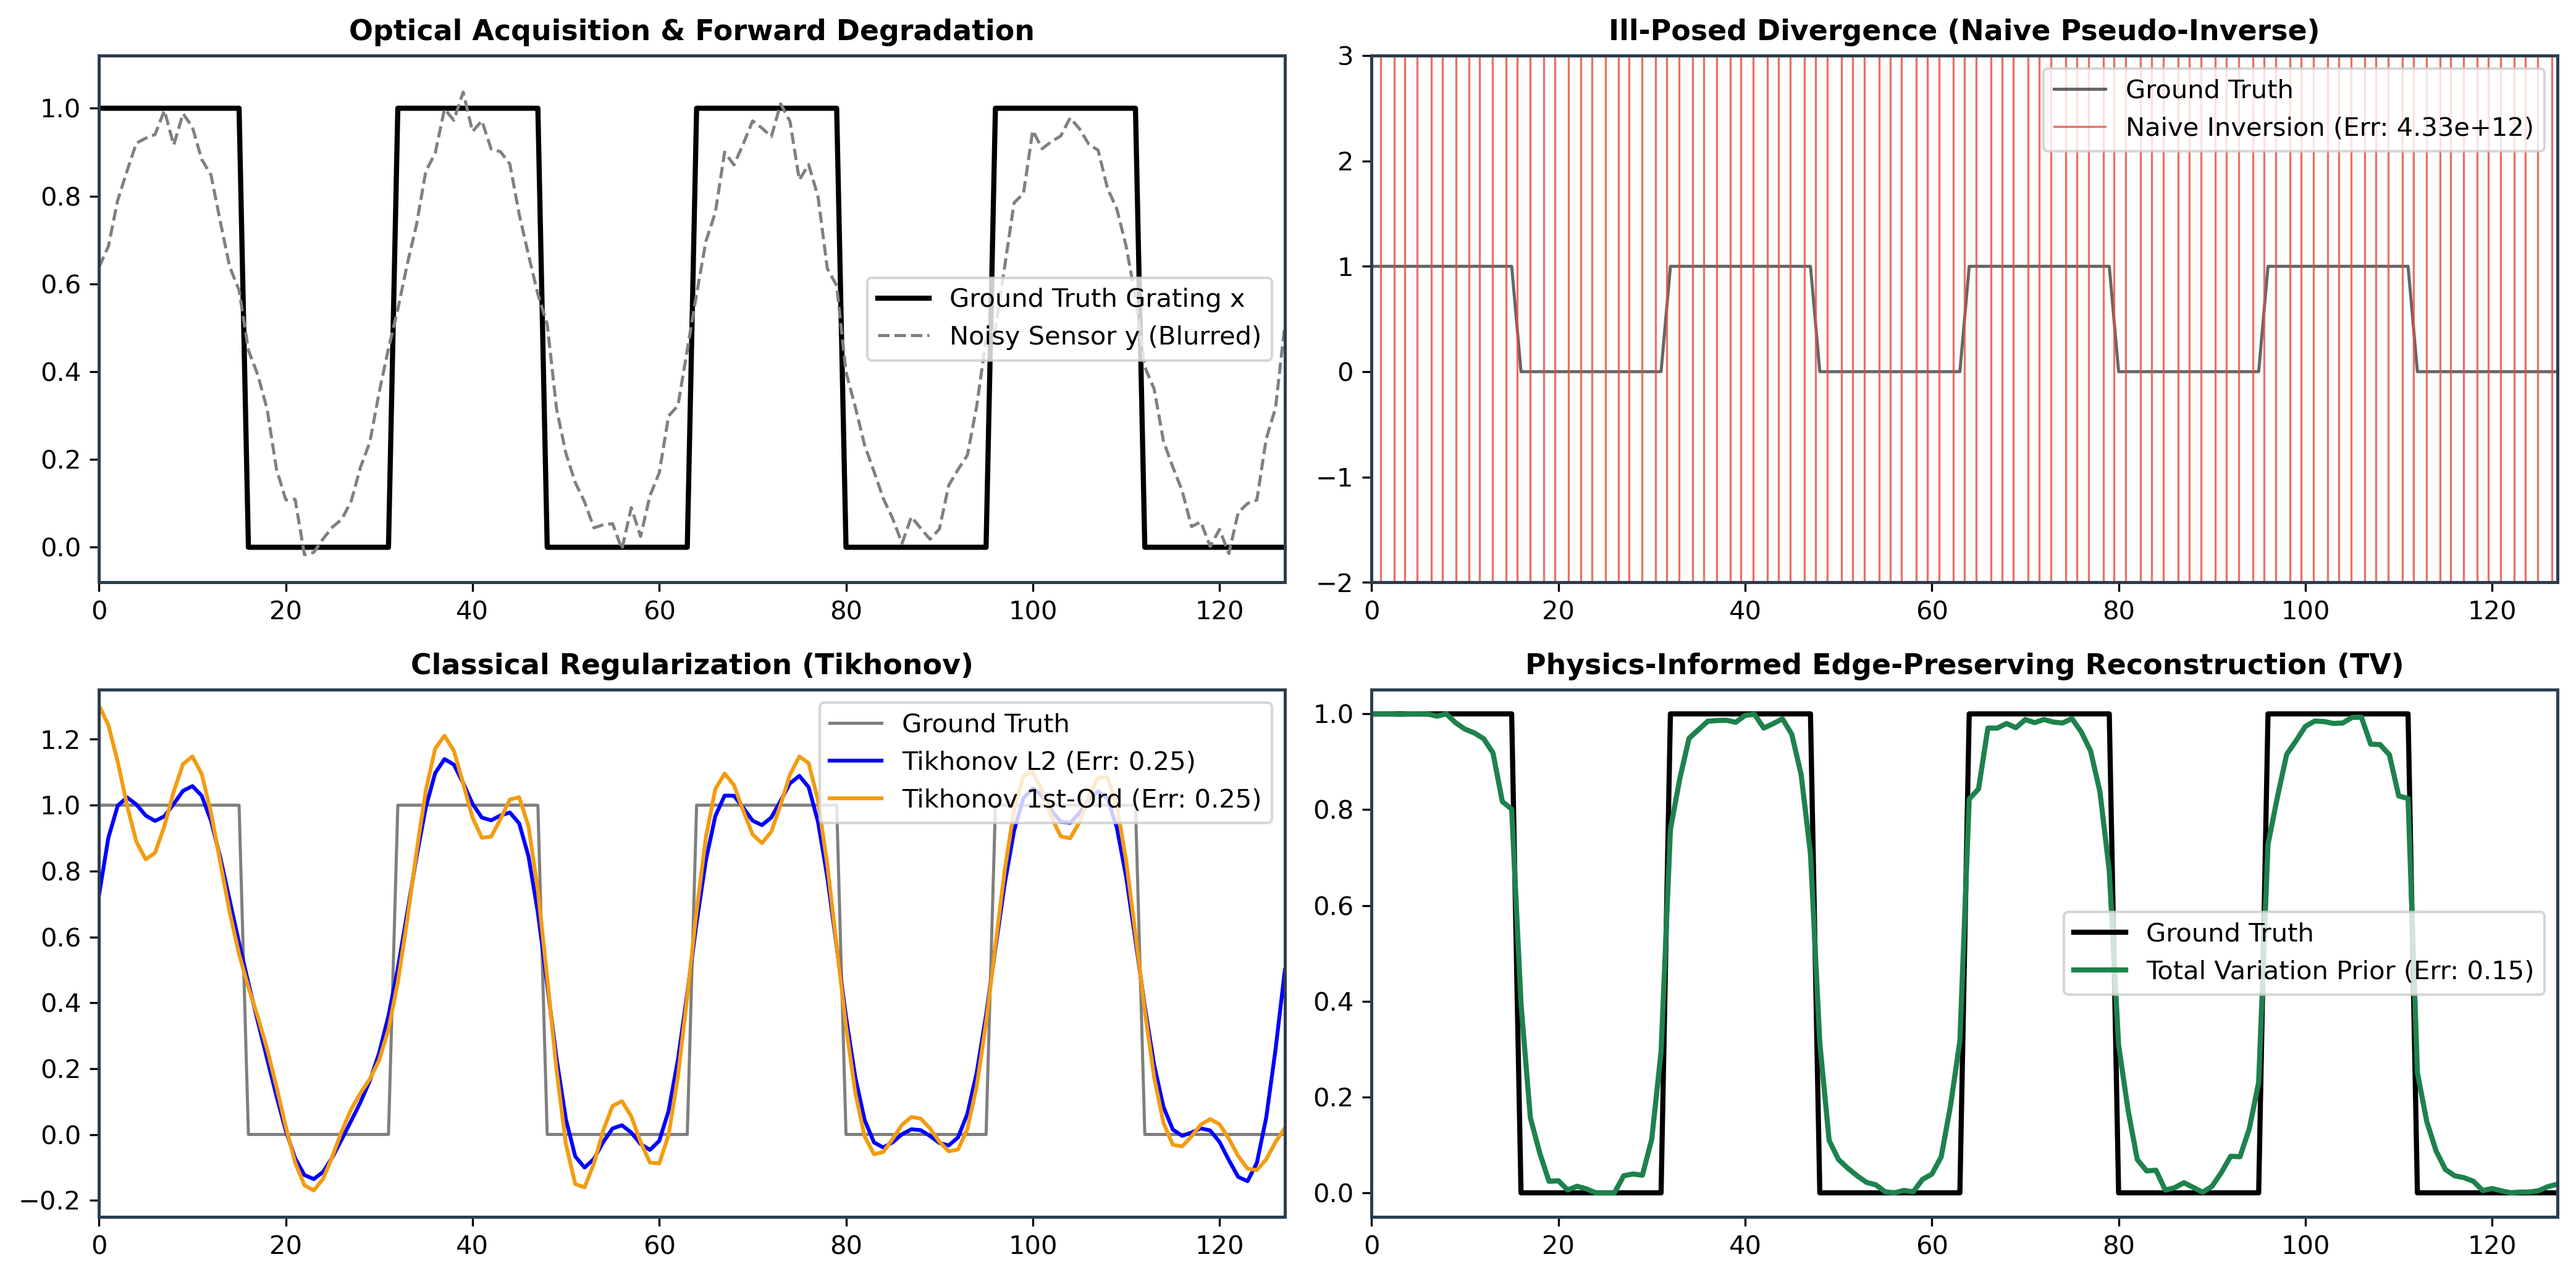
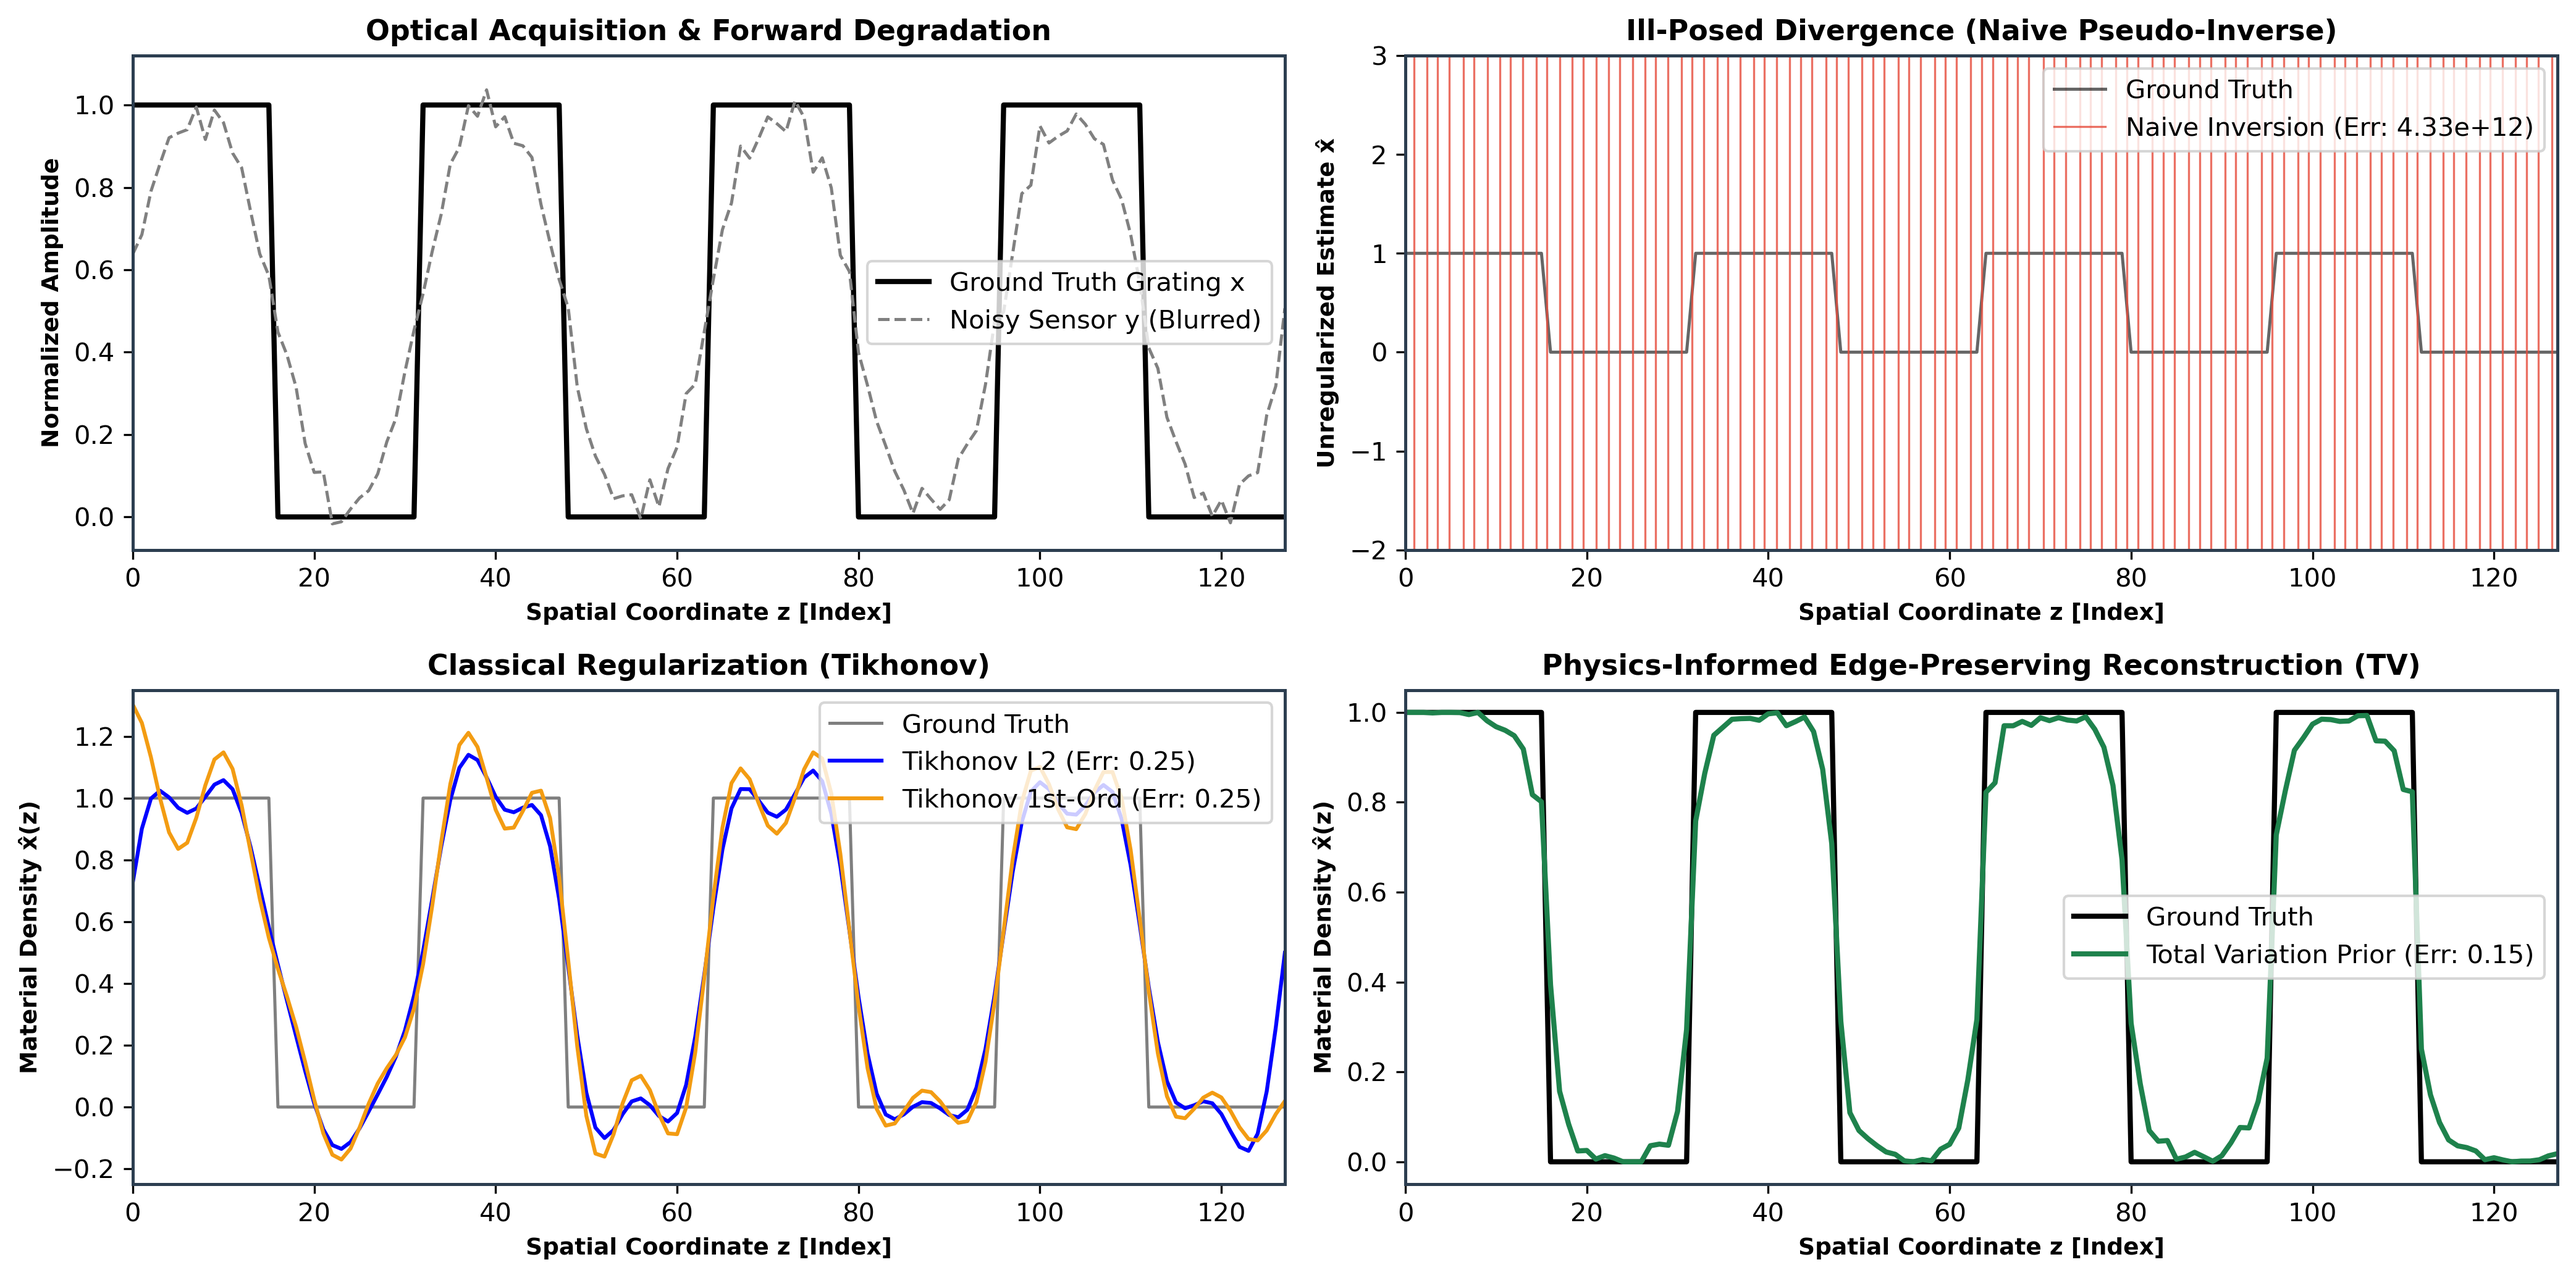
fix: minor corrections and fixes in run_benchmark

diff --git a/run_benchmark.py b/run_benchmark.py
@@ -68,6 +68,8 @@ def main():
     ax1.plot(x_true, color='black', linewidth=2.0, label='Ground Truth Grating x')
     ax1.plot(y_noisy, color='gray', linestyle='--', linewidth=1.2, label='Noisy Sensor y (Blurred)')
     ax1.set_title('Optical Acquisition & Forward Degradation', fontsize=11, fontweight='bold')
+    ax1.set_xlabel('Spatial Coordinate z [Index]', fontsize=9, fontweight='bold')
+    ax1.set_ylabel('Normalized Amplitude', fontsize=9, fontweight='bold')
     ax1.set_xlim(0, N - 1)
     ax1.set_ylim(-0.08, 1.12)
     ax1.grid(False)
@@ -78,27 +80,33 @@ def main():
     ax2.plot(x_true, color='black', linewidth=1.2, alpha=0.6, label='Ground Truth')
     ax2.plot(x_naive, color='#e74c3c', linewidth=0.8, alpha=0.8, label=f'Naive Inversion (Err: {err_naive:.2e})')
     ax2.set_title('Ill-Posed Divergence (Naive Pseudo-Inverse)', fontsize=11, fontweight='bold')
+    ax2.set_xlabel('Spatial Coordinate z [Index]', fontsize=9, fontweight='bold')
+    ax2.set_ylabel('Unregularized Estimate x̂', fontsize=9, fontweight='bold')
     ax2.set_xlim(0, N - 1)
     ax2.set_ylim(-2.0, 3.0)
     ax2.grid(False)
     ax2.legend(loc='upper right', frameon=True)
     
-    # Panel 3: Classical Tikhonov (L2 and 1st-Order Smoothing)
+    # Panel 3: Classical Tikhonov Regularization
     ax3 = axes[1, 0]
     ax3.plot(x_true, color='black', linewidth=1.2, alpha=0.5, label='Ground Truth')
     ax3.plot(x_tik_l2, color='blue', linewidth=1.5, label=f'Tikhonov L2 (Err: {err_tik_l2:.2f})')
     ax3.plot(x_tik_d1, color='#f39c12', linewidth=1.5, label=f'Tikhonov 1st-Ord (Err: {err_tik_d1:.2f})')
     ax3.set_title('Classical Regularization (Tikhonov)', fontsize=11, fontweight='bold')
+    ax3.set_xlabel('Spatial Coordinate z [Index]', fontsize=9, fontweight='bold')
+    ax3.set_ylabel('Material Density x̂(z)', fontsize=9, fontweight='bold')
     ax3.set_xlim(0, N - 1)
     ax3.set_ylim(-0.25, 1.35)
     ax3.grid(False)
     ax3.legend(loc='upper right', frameon=True)
     
-    # Panel 4: Physics-Informed Variational Inversion (Total Variation)
+    # Panel 4: Physics-Informed Variational Inversion (TV)
     ax4 = axes[1, 1]
     ax4.plot(x_true, color='black', linewidth=2.0, label='Ground Truth')
     ax4.plot(x_tv, color='#1e824c', linewidth=2.0, label=f'Total Variation Prior (Err: {err_tv:.2f})')
     ax4.set_title('Physics-Informed Edge-Preserving Reconstruction (TV)', fontsize=11, fontweight='bold')
+    ax4.set_xlabel('Spatial Coordinate z [Index]', fontsize=9, fontweight='bold')
+    ax4.set_ylabel('Material Density x̂(z)', fontsize=9, fontweight='bold')
     ax4.set_xlim(0, N - 1)
     ax4.set_ylim(-0.05, 1.05)
     ax4.grid(False)

diff --git a/README.md b/README.md
@@ -30,7 +30,8 @@ We evaluate three stabilization schemes against naive inversion:
    $$\min_x \|Ax - y\|_2^2 + \alpha \|Dx\|_2^2 \implies x = (A^T A + \alpha D^T D)^{-1} A^T y$$
 
 3. **Physics-Informed Variational Inversion (Total Variation Prior):**
-$$\min_{\hat{x}} \frac{1}{2N} |A\hat{x} - y|2^2 + \lambda{\text{TV}} \sum_{i=1}^{N-1} \sqrt{(\hat{x}_{i+1} - \hat{x}_i)^2 + \epsilon} \quad \text{subject to} \quad \hat{x} \in [0, 1]$$
+
+   $$\min_{\hat{x}} \frac{1}{2N} \|A\hat{x} - y\|_2^2 + \lambda_{\text{TV}} \sum_{i=1}^{N-1} \sqrt{(\hat{x}_{i+1} - \hat{x}_i)^2 + \epsilon} \quad \text{subject to} \quad \hat{x} \in [0, 1]$$
 
 | Solver Method | Relative $L_2$ Error | Notes |
 | :--- | :--- | :--- |
